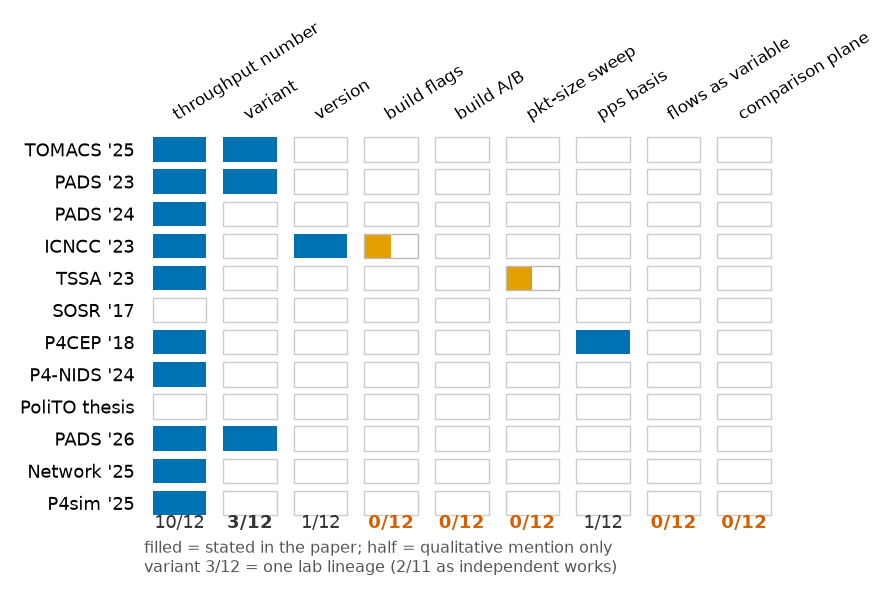
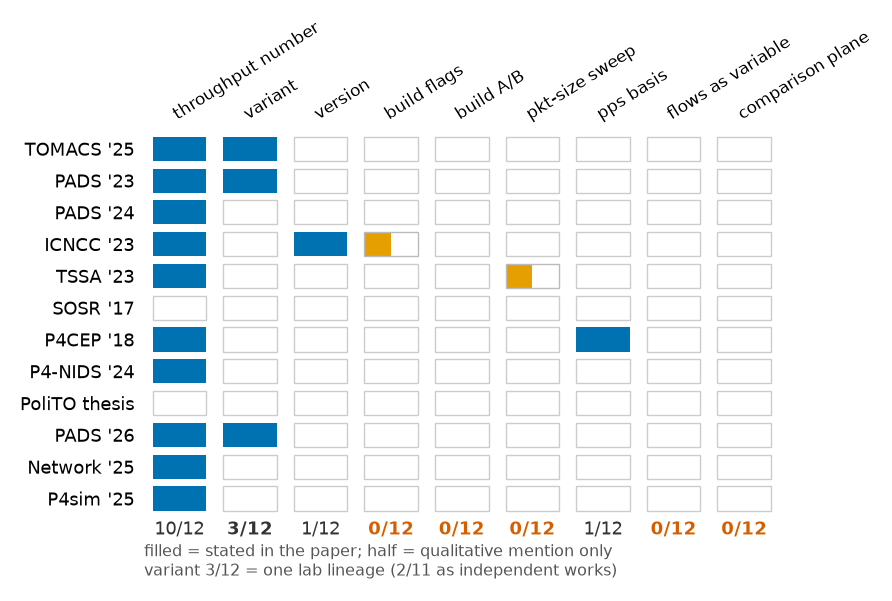
fig5: drop the column totals below the last matrix row
At .82\linewidth in the 2-page version the totals row (10/12, 3/12, ...)
sat on the bottom edge of the P4sim '25 cells: the annotate() baseline
at y=-0.28 put the glyph tops above the cell bottom (y=0.12). Anchor the
totals' top edge at y=-0.2 instead and move the legend note down;
extend ylim to keep it inside the axes. Only fig5 regenerated; positive
control: the unmodified script reproduced the previous PNG byte-for-byte
(sha d06d143b...) before the change. New PNG sha 24e8d236...

[Co-developed with claude code -- Adam]

diff --git a/doc/2026-08-29_bmv2-performance-study-figs/make_survey_figs.py b/doc/2026-08-29_bmv2-performance-study-figs/make_survey_figs.py
@@ -103,7 +103,7 @@ def fig5():
                                        facecolor="white", edgecolor="#cccccc",
                                        lw=0.5))
     ax.set_xlim(0, nc)
-    ax.set_ylim(-1.9, nr)
+    ax.set_ylim(-2.05, nr)
     ax.set_xticks([j + 0.5 for j in range(nc)],
                   [c.replace("\n", " ") for c in cols], fontsize=6.0,
                   rotation=32, ha="left", rotation_mode="anchor")
@@ -113,12 +113,16 @@ def fig5():
     ax.tick_params(axis="y", length=0)
     for j, t in enumerate(totals):
         bold = t.startswith("0") or cols[j].startswith("variant")
-        ax.annotate(t, (j + 0.5, -0.28), ha="center", fontsize=6.5,
+        # 2026-09-02: totals sat on the last row's cell edge (baseline at
+        # -0.28 put the glyph tops above y=0.12) and collided with it when
+        # the figure is scaled to .82\linewidth in the 2-page version.
+        # Anchor the totals' top edge below the cells instead.
+        ax.annotate(t, (j + 0.5, -0.2), ha="center", va="top", fontsize=6.5,
                     fontweight="bold" if bold else "normal",
                     color=C_HL if t == "0/12" else "#333333")
     ax.annotate("filled = stated in the paper; half = qualitative mention only\n"
                 "variant 3/12 = one lab lineage (2/11 as independent works)",
-                (0, -0.62), va="top", fontsize=5.8, color="#555555")
+                (0, -0.88), va="top", fontsize=5.8, color="#555555")
     for s in ("left", "bottom"):
         ax.spines[s].set_visible(False)
     save(fig, "fig5_reporting_matrix")
